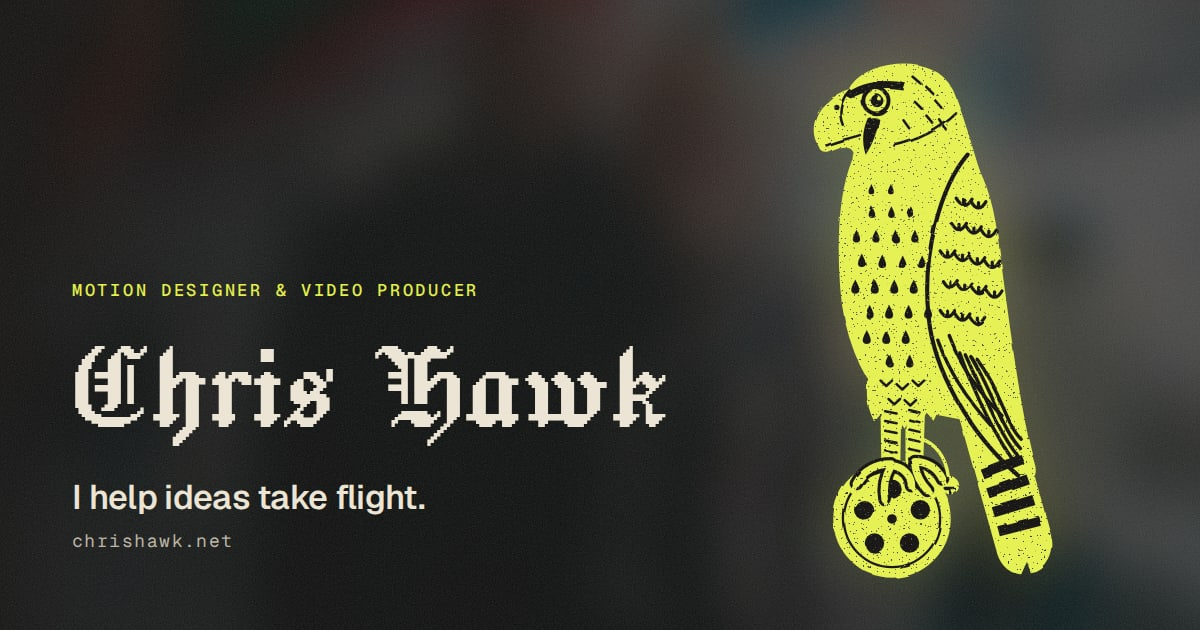
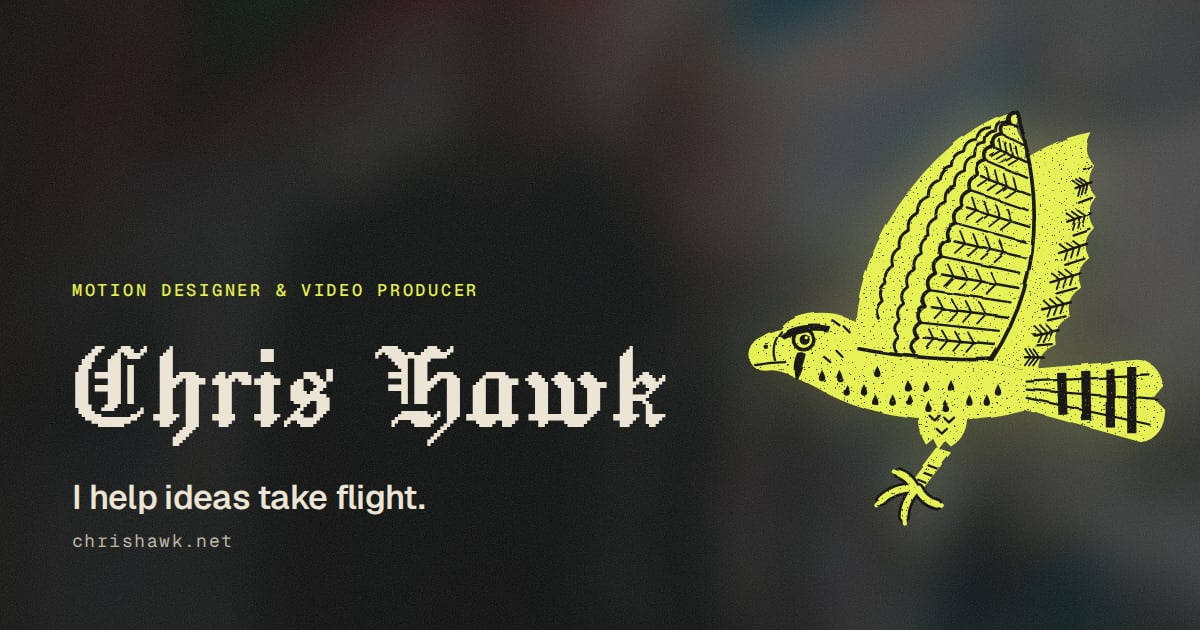
Use the in-flight hawk across the site
Set site.hawk to 'flight' and regenerate the social share image with the
flying hawk. The perched pose remains available via the same setting.

Claude-Session: https://claude.ai/code/session_01KxeSornYAa1Bae3iecFjKf

Changed region(s): [[0.6167, 0.0905, 0.9867, 0.9349]]

diff --git a/src/site.config.ts b/src/site.config.ts
@@ -12,7 +12,7 @@ export const site = {
   email: 'hawk@chrishawk.net',
 
   /** The hawk illustration used across the site: 'perched' (on a film reel) or 'flight'. */
-  hawk: 'perched' as 'perched' | 'flight',
+  hawk: 'flight' as 'perched' | 'flight',
 
   /** Shown in the header and hero. Set `open: false` to hide the badge. */
   availability: { open: true, label: 'Open to new roles' },

diff --git a/README.md b/README.md
@@ -3,7 +3,7 @@
 Portfolio of Chris Hawk — motion designer & video producer.
 Built with [Astro](https://astro.build) as a fast static site: no framework, no tracking, just HTML, CSS and a little TypeScript.
 
-**Art direction — "Future Medieval × cinema":** ink-black pages, parchment type, one acid-chartreuse accent, film grain, blurred neon photography, a woodcut-printed hawk perched on a film reel (with a falconer's jess and bell), Jacquard 24 pixel-blackletter for display moments, Geist for everything you read, and manuscript details (☞ manicules, roman numerals, a boxed initial).
+**Art direction — "Future Medieval × cinema":** ink-black pages, parchment type, one acid-chartreuse accent, film grain, blurred neon photography, a woodcut-printed hawk in flight (a perched pose on a film reel is one config switch away), Jacquard 24 pixel-blackletter for display moments, Geist for everything you read, and manuscript details (☞ manicules, roman numerals, a boxed initial).
 
 ## Run it
 
